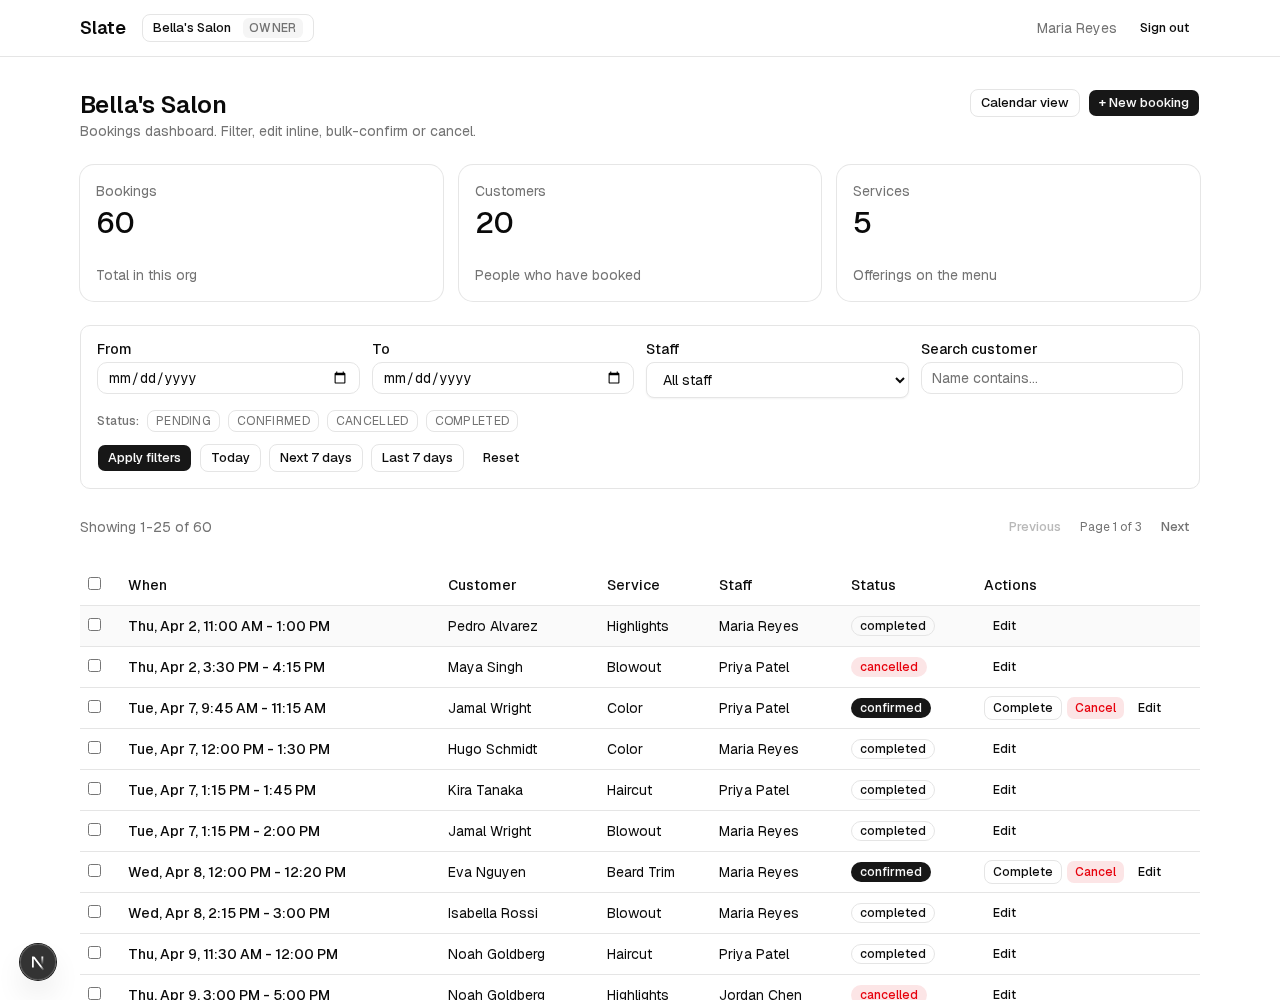
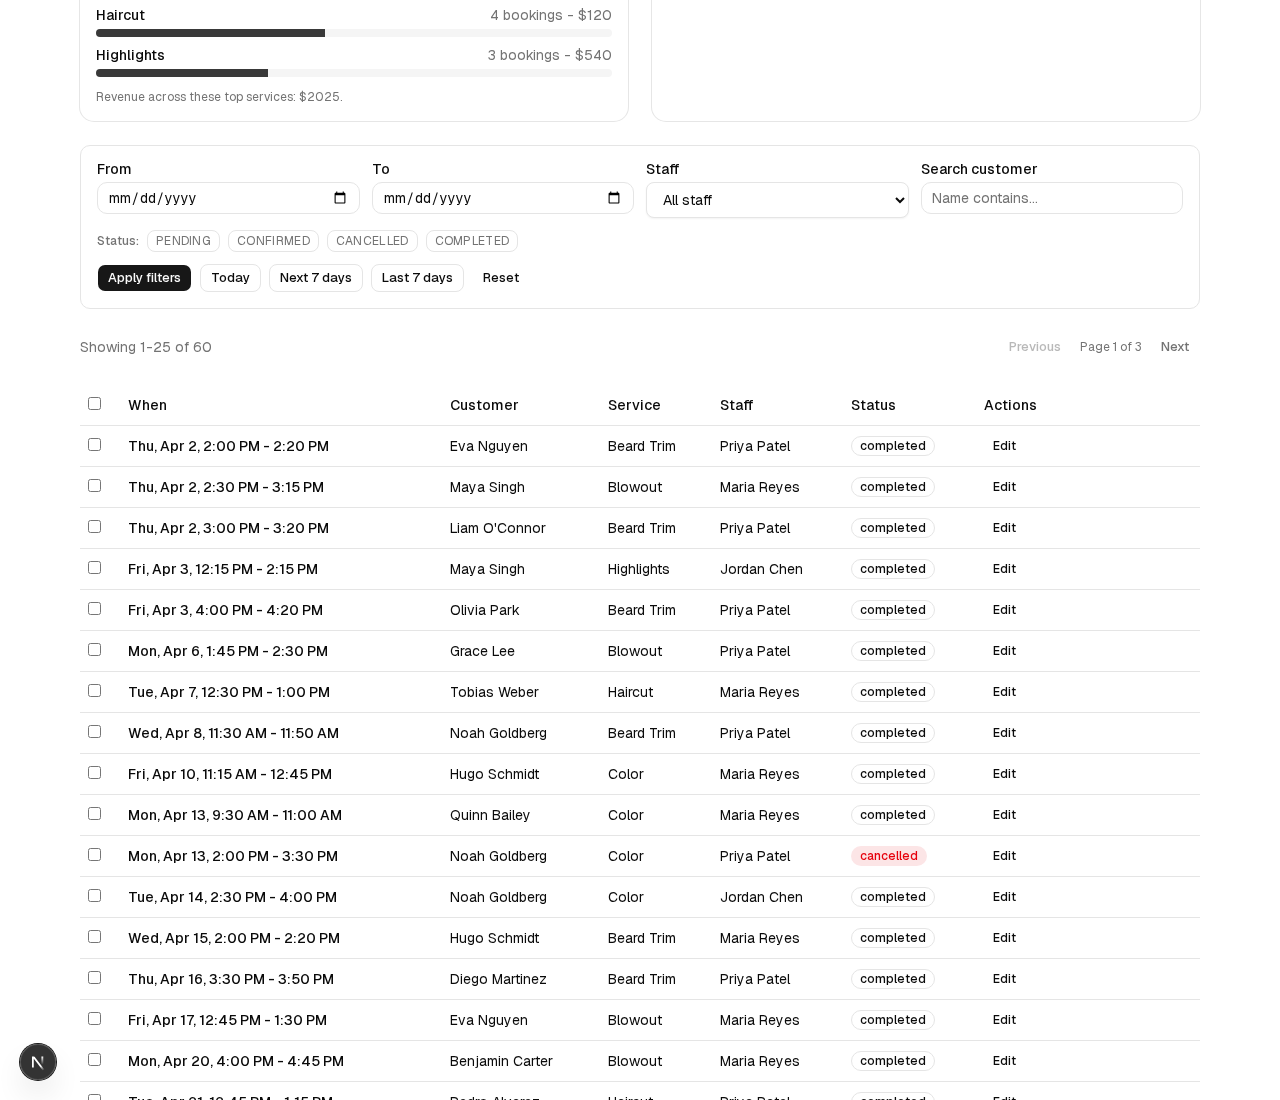
Wire analytics into dashboard, refresh phase1 probe, capture screenshots
dashboard/page.tsx replaces the three plain count tiles with the new
AnalyticsCards section. Counts queries are dropped (replaced by the
analytics aggregations) and the layout flows: org header -> analytics
overview -> filter bar -> bookings list.

phase1-smoke.mjs no longer reads the (removed) Bookings/Customers/
Services tiles. It uses the bookings-summary line ("Showing 1-25 of
60") as the durable cross-phase total-bookings probe, and asserts
against the empty-state notice for fresh sign-ups instead of
zero counts. The phase 1 contract (auth + isolation + sign-up
creates a new tenant) is unchanged; only the indicators moved.

phase5-smoke.mjs covers KPI tiles, sane volume, top services, staff
utilization, and asserts cross-org isolation by switching to
Pinecrest and confirming the volumes differ.

Screenshots: 10-analytics-home.png as new headline; 03-dashboard.png
re-shot scrolled past the analytics so the README image roll shows
both faces of the dashboard.

diff --git a/src/app/(app)/dashboard/page.tsx b/src/app/(app)/dashboard/page.tsx
@@ -1,15 +1,5 @@
-import { count, eq } from "drizzle-orm";
 import { cn } from "@/lib/utils";
 import { buttonVariants } from "@/components/ui/button";
-import {
-  Card,
-  CardContent,
-  CardDescription,
-  CardHeader,
-  CardTitle,
-} from "@/components/ui/card";
-import { db } from "@/db";
-import { bookings, customers, services } from "@/db/schema";
 import { requireOrgScope } from "@/lib/auth/scope";
 import {
   listFilteredBookings,
@@ -22,9 +12,16 @@ import {
   PAGE_SIZE,
   buildSearchString,
 } from "@/lib/bookings/url-filters";
+import {
+  loadAnalyticsSummary,
+  loadStaffUtilization,
+  loadTopServices,
+  rangeForLast,
+} from "@/lib/analytics/queries";
 import { BookingsFilters } from "@/components/bookings/bookings-filters";
 import { BookingsTable } from "@/components/bookings/bookings-table";
 import { NewBookingDialog } from "@/components/bookings/new-booking-dialog";
+import { AnalyticsCards } from "@/components/analytics/analytics-cards";
 import Link from "next/link";
 
 function nextWeekdayAtTen() {
@@ -51,18 +48,16 @@ export default async function DashboardPage({
   const params = await searchParams;
   const filters = parseFiltersFromParams(params);
 
+  const last30 = rangeForLast(30);
   const [
-    bookingCountRow,
-    customerCountRow,
-    serviceCountRow,
     customerList,
     serviceList,
     staffList,
     filtered,
+    summary,
+    topServices,
+    utilization,
   ] = await Promise.all([
-    db.select({ value: count() }).from(bookings).where(eq(bookings.orgId, scope.orgId)),
-    db.select({ value: count() }).from(customers).where(eq(customers.orgId, scope.orgId)),
-    db.select({ value: count() }).from(services).where(eq(services.orgId, scope.orgId)),
     listOrgCustomers(scope.orgId),
     listOrgServices(scope.orgId),
     listOrgStaff(scope.orgId),
@@ -77,13 +72,10 @@ export default async function DashboardPage({
       },
       { limit: PAGE_SIZE, offset: (filters.page - 1) * PAGE_SIZE },
     ),
+    loadAnalyticsSummary(scope.orgId),
+    loadTopServices(scope.orgId, last30.from, last30.to),
+    loadStaffUtilization(scope.orgId, last30.from, last30.to),
   ]);
-
-  const stats = [
-    { label: "Bookings", value: bookingCountRow[0]?.value ?? 0, description: "Total in this org" },
-    { label: "Customers", value: customerCountRow[0]?.value ?? 0, description: "People who have booked" },
-    { label: "Services", value: serviceCountRow[0]?.value ?? 0, description: "Offerings on the menu" },
-  ];
 
   const totalPages = Math.max(1, Math.ceil(filtered.total / PAGE_SIZE));
   const currentPage = filters.page;
@@ -121,19 +113,13 @@ export default async function DashboardPage({
         ) : null}
       </div>
 
-      <div className="grid grid-cols-1 gap-4 sm:grid-cols-3">
-        {stats.map((stat) => (
-          <Card key={stat.label}>
-            <CardHeader className="pb-2">
-              <CardDescription>{stat.label}</CardDescription>
-              <CardTitle className="text-3xl">{stat.value}</CardTitle>
-            </CardHeader>
-            <CardContent>
-              <p className="text-sm text-muted-foreground">{stat.description}</p>
-            </CardContent>
-          </Card>
-        ))}
-      </div>
+      {!noOrgData ? (
+        <AnalyticsCards
+          summary={summary}
+          topServices={topServices}
+          utilization={utilization}
+        />
+      ) : null}
 
       {noOrgData ? (
         <p className="text-sm text-muted-foreground">

diff --git a/README.md b/README.md
@@ -39,7 +39,8 @@ Seed data ships as Bella's Salon: haircut, color, blowout services; staff named 
 
 Screenshots land in `/screenshots/` as each phase ships. More appear here as the build progresses.
 
-![Bookings dashboard with filters, pagination, and inline actions](screenshots/03-dashboard.png)
+![Analytics home: KPIs, top services, staff utilization](screenshots/10-analytics-home.png)
+![Bookings list with filters, pagination, inline actions](screenshots/03-dashboard.png)
 ![Calendar week view with status-colored blocks](screenshots/08-calendar-week.png)
 ![Calendar day view with staff columns and drag-to-reschedule](screenshots/09-calendar-day.png)
 ![Edit booking dialog (reschedule + notes + delete)](screenshots/07-edit-dialog.png)
